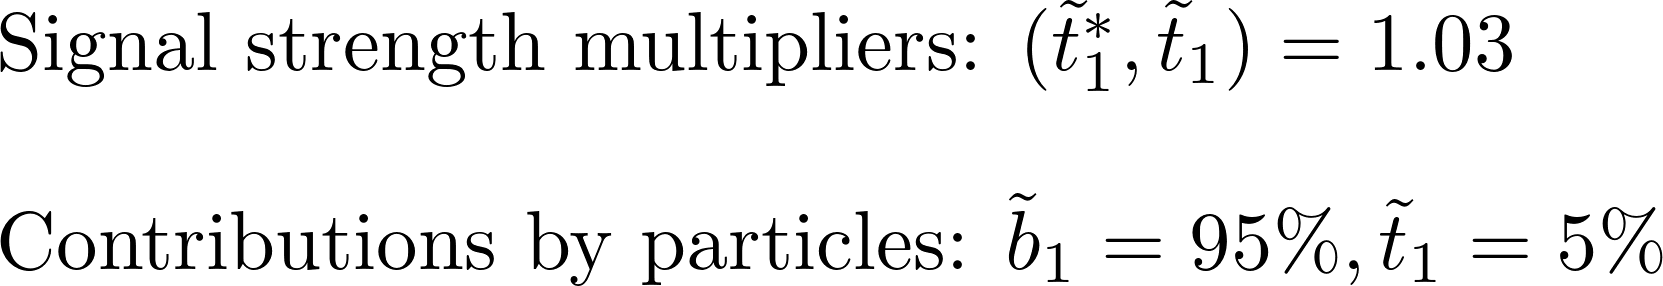
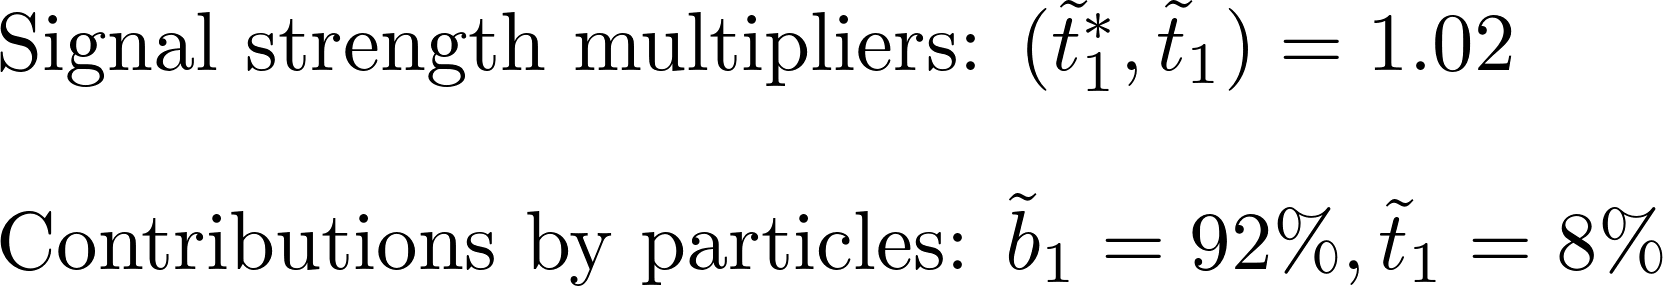
automated update by plotHiscore.py

diff --git a/protomodels/latest/index.html b/protomodels/latest/index.html
@@ -1,17 +1,17 @@
 <html>
 <body>
 <center>
-<table><td><h1>Current best protomodel: K=6.34, Z=2.97</h1><td><img height=60px src=https://smodels.github.io/pics/banner.png></table>
+<table><td><h1>Current best protomodel: K=6.52, Z=2.97</h1><td><img height=60px src=https://smodels.github.io/pics/banner.png></table>
 </center>
 <b><a href=./hiscore.slha>ProtoModel</a> <a href=./pmodel.py>(dict)</a> produced with <a href=https://smodels.github.io/docs/Validation123signal1>database v1.2.3signal1</a>, combination strategy <a href=./matrix_aggressive.png>aggressive</a> in step 403.</b> Z plots for: <a href=./M1000022.png>~&chi;<sub>1</sub><sup>0</sup></a>, <a href=./M1000006.png>~t<sub>1</sub></a>, <a href=./M1000005.png>~b<sub>1</sub></a>. HPD plots for: <a href=./llhd1000006.png>~t<sub>1</sub></a>, <a href=./llhd1000005.png>~b<sub>1</sub></a>. SSM plots for: <a href=./ssm_-1000006_1000006.png>(~t<sub>1</sub><sup>*</sup>,~t<sub>1</sub>)</a><br>
 <table width=80%>
 <tr><td>
 <br><b>38 predictions available. Highest r values are:</b><br><ul>
-<li><a href=http://cms-results.web.cern.ch/cms-results/public-results/publications/SUS-16-049/index.html>CMS-SUS-16-049</a>:T2tt r=1.33, r<sub>exp</sub>=2.28<br>
+<li><a href=http://cms-results.web.cern.ch/cms-results/public-results/publications/SUS-16-049/index.html>CMS-SUS-16-049</a>:T2tt r=1.34, r<sub>exp</sub>=2.29<br>
 <li><a href=https://atlas.web.cern.ch/Atlas/GROUPS/PHYSICS/PAPERS/SUSY-2013-21/>ATLAS-SUSY-2013-21</a>:T2bb r=1.30, r<sub>exp</sub>=1.33<br>
-<li><a href=http://cms-results.web.cern.ch/cms-results/public-results/publications/SUS-16-050/index.html>CMS-SUS-16-050</a>:T2tt r=1.23, r<sub>exp</sub>=2.01<br>
-<li><a href=http://cms-results.web.cern.ch/cms-results/public-results/publications/SUS-16-051/index.html>CMS-SUS-16-051</a>:T2tt r=1.13, r<sub>exp</sub>=1.75<br>
-<li><a href=http://cms-results.web.cern.ch/cms-results/public-results/publications/SUS-19-006/index.html>CMS-SUS-19-006</a>:T2tt r=1.05, r<sub>exp</sub>=2.29<br>
+<li><a href=http://cms-results.web.cern.ch/cms-results/public-results/publications/SUS-16-050/index.html>CMS-SUS-16-050</a>:T2tt r=1.24, r<sub>exp</sub>=2.02<br>
+<li><a href=http://cms-results.web.cern.ch/cms-results/public-results/publications/SUS-16-051/index.html>CMS-SUS-16-051</a>:T2tt r=1.14, r<sub>exp</sub>=1.76<br>
+<li><a href=http://cms-results.web.cern.ch/cms-results/public-results/publications/SUS-19-006/index.html>CMS-SUS-19-006</a>:T2tt r=1.05, r<sub>exp</sub>=2.30<br>
 </ul>
 <td><br><b>Contributions per analysis:</b><br>
 <ul>
@@ -20,10 +20,10 @@
 <li> <a href=https://twiki.cern.ch/twiki/bin/view/CMSPublic/PhysicsResultsSUS13015>CMS-PAS-SUS-13-015</a>: 2%
 <li> <a href=https://atlas.web.cern.ch/Atlas/GROUPS/PHYSICS/CONFNOTES/ATLAS-CONF-2013-054/>ATLAS-CONF-2013-054</a>: 0%
 <li> <a href=http://cms-results.web.cern.ch/cms-results/public-results/publications/SUS-16-033/index.html>CMS-SUS-16-033</a>: -3%
-<td><img width=600px src=./texdoc.png?1591069500>
-<br><font size=-1>Last updated: Tue Jun  2 05:45:00 2020</font>
+<td><img width=600px src=./texdoc.png?1591069782>
+<br><font size=-1>Last updated: Tue Jun  2 05:49:42 2020</font>
 </table><table style="width:80%">
-<td width=45%><img height=580px src=./ruler.png?1591069500><td width=55%><img height=380px src=./decays.png?1591069500>
+<td width=45%><img height=580px src=./ruler.png?1591069782><td width=55%><img height=380px src=./decays.png?1591069782>
 <font size=-3><iframe type="text/html" height="220px" width="100%" frameborder="0" src="rawnumbers.html"></iframe></font>
 </table>
 </body>

diff --git a/protomodels/latest/pmodel.py b/protomodels/latest/pmodel.py
@@ -1,1 +1,1 @@
-{'masses': {1000005: 374.915, 1000006: 720.189, 1000022: 355.552}, 'ssmultipliers': {(1000005, 1000005): 6.387, (-1000005, 1000005): 6.387, (1000005, 1000022): 527.574, (-1000005, -1000005): 6.387, (-1000005, 1000022): 527.574, (1000022, 1000022): 341265.76, (1000005, 1000006): 0.0, (-1000006, 1000005): 0.0, (-1000005, 1000006): 0.0, (-1000006, -1000005): 0.0, (1000006, 1000006): 4.292, (-1000006, 1000006): 1.026, (1000006, 1000022): 0.0, (-1000006, -1000006): 4.292, (-1000006, 1000022): 0.0}, 'decays': {1000005: {1000022: 1.0}, 1000006: {1000022: 0.987, (1000006, 2000006): 0.01, 1000006: 0.003}, 1000022: {}}, 'timestamp': 'Tue Jun  2 05:44:57 2020', 'Z': 2.97, 'K': 6.344, 'step': 403}
+{'masses': {1000005: 374.915, 1000006: 720.189, 1000022: 355.552}, 'ssmultipliers': {(1000005, 1000005): 6.378, (-1000005, 1000005): 6.378, (1000005, 1000022): 526.829, (-1000005, -1000005): 6.378, (-1000005, 1000022): 526.829, (1000022, 1000022): 340783.352, (1000005, 1000006): 0.0, (-1000006, 1000005): 0.0, (-1000005, 1000006): 0.0, (-1000006, -1000005): 0.0, (1000006, 1000006): 4.286, (-1000006, 1000006): 1.024, (1000006, 1000022): 0.0, (-1000006, -1000006): 4.286, (-1000006, 1000022): 0.0}, 'decays': {1000005: {1000022: 1.0}, 1000006: {1000022: 0.99, (1000006, 2000006): 0.01}, 1000022: {}}, 'timestamp': 'Tue Jun  2 05:49:38 2020', 'Z': 2.97, 'K': 6.521, 'step': 403}
